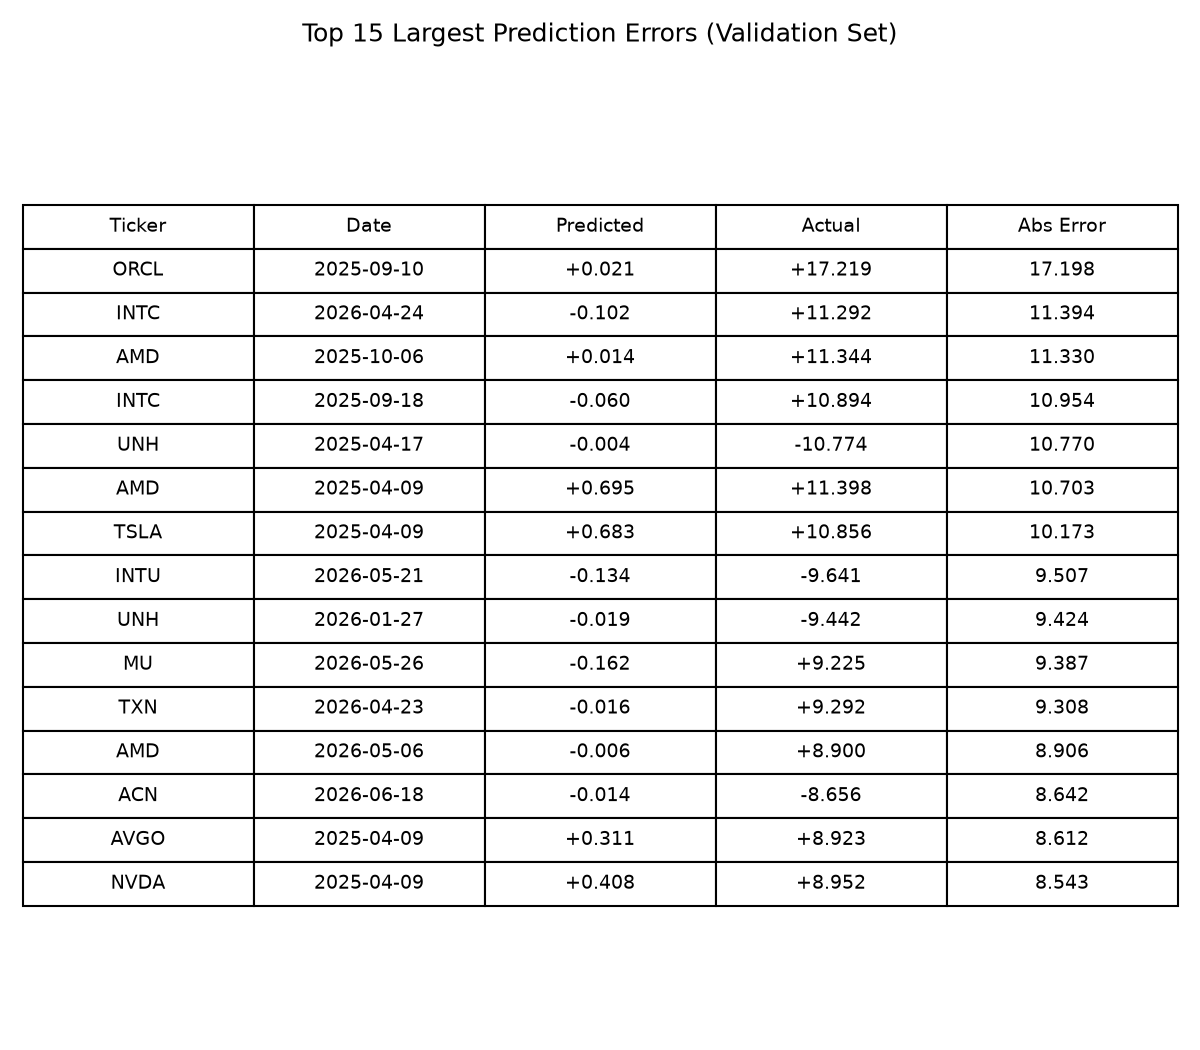
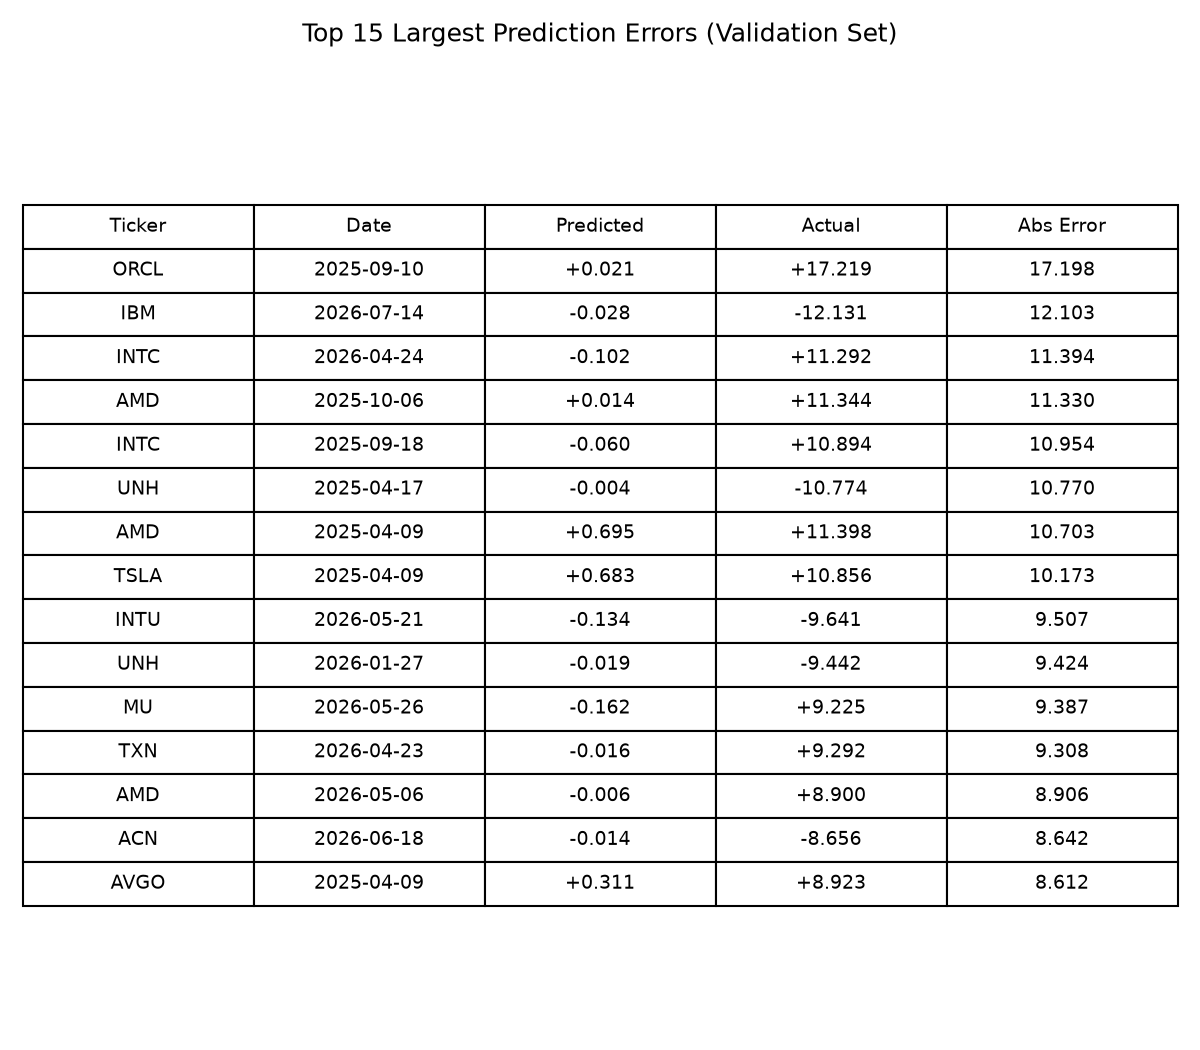
Add long/short backtest comparison vs. Fischer & Krauss (2018)
Runs the same methodology their paper used (daily long top-10/short
bottom-10 by predicted return) on our own model, producing a directly
comparable avg. daily return and Sharpe ratio (+0.03%/0.31 vs. their
published +0.46%/5.8) instead of just citing their number in isolation.
Wires fk_comparison.png into slide 7 and updates the README.

diff --git a/generate_report_plots.py b/generate_report_plots.py
@@ -204,6 +204,67 @@ def plot_results_table(preds, X_train, y_train, X_val, y_val):
     print("Saved results_table.png")
 
 
+def plot_trading_backtest(preds, y_val, id_val, dates_val, scaler, top_k: int = 10):
+    """Long/short backtest matching the methodology Fischer & Krauss (2018) used:
+    each day, rank stocks by predicted return, go long the top `top_k` and short
+    the bottom `top_k` (equal-weighted), and measure the REALIZED portfolio
+    return using actual outcomes — not the scaled MSE/directional-accuracy
+    metrics used elsewhere. This produces a number directly comparable to
+    their published 0.46% avg daily return / 5.8 Sharpe ratio.
+
+    StandardScaler's inverse transform is per-column independent, so we only
+    need the 'return' column's (column 0) mean/scale — no need to reconstruct
+    the full 5-column feature vector just to undo the scaling on one column.
+    """
+    return_mean = scaler.mean_[0]
+    return_scale = scaler.scale_[0]
+    actual_returns = y_val * return_scale + return_mean
+    predicted_returns = preds * return_scale + return_mean
+
+    df = pd.DataFrame({
+        "date": pd.to_datetime(dates_val),
+        "stock_id": id_val,
+        "predicted": predicted_returns,
+        "actual": actual_returns,
+    })
+
+    daily_portfolio_returns = []
+    for _, group in df.groupby("date"):
+        if len(group) < 2 * top_k:
+            continue
+        ranked = group.sort_values("predicted", ascending=False)
+        long_leg = ranked.head(top_k)["actual"].mean()
+        short_leg = ranked.tail(top_k)["actual"].mean()
+        daily_portfolio_returns.append(long_leg - short_leg)
+
+    daily_returns = np.array(daily_portfolio_returns)
+    avg_daily_return_pct = float(daily_returns.mean() * 100)
+    sharpe = float(daily_returns.mean() / daily_returns.std() * np.sqrt(252))
+
+    rows = [
+        ["Our Pooled LSTM (this project)", f"{avg_daily_return_pct:+.2f}%", f"{sharpe:.2f}"],
+        ["Fischer & Krauss (2018), EJOR", "+0.46%", "5.8"],
+    ]
+
+    fig, ax = plt.subplots(figsize=(8, 2.8))
+    ax.axis("off")
+    table = ax.table(
+        cellText=rows,
+        colLabels=["Model", "Avg. Daily Return\n(long-short, before costs)", "Sharpe Ratio"],
+        loc="center",
+        cellLoc="center",
+    )
+    table.auto_set_font_size(False)
+    table.set_fontsize(10)
+    table.scale(1, 2.8)
+    plt.title(f"Long/Short Backtest vs. Published Benchmark\n(top/bottom {top_k} stocks daily, {len(daily_returns)} trading days)", pad=20)
+    plt.tight_layout()
+    plt.savefig("fk_comparison.png", dpi=150)
+    plt.close()
+    print(f"Saved fk_comparison.png (avg daily return: {avg_daily_return_pct:+.2f}%, Sharpe: {sharpe:.2f})")
+    return avg_daily_return_pct, sharpe
+
+
 # ---------------------------------------------------------------------------
 # 4. System diagram — static deployment flow, no model inference involved
 # ---------------------------------------------------------------------------
@@ -306,18 +367,21 @@ def main():
     preds = plot_prediction_vs_actual(model, X_val, id_val, y_val)
     plot_large_errors(preds, y_val, id_val, dates_val, idx_to_stock)
 
-    print("\n[4/6] Results table (model vs. baselines)...")
+    print("\n[4/7] Results table (model vs. baselines)...")
     plot_results_table(preds, X_train, y_train, X_val, y_val)
 
-    print("\n[5/6] System diagram...")
+    print("\n[5/7] Long/short backtest vs. Fischer & Krauss (2018)...")
+    plot_trading_backtest(preds, y_val, id_val, dates_val, scaler)
+
+    print("\n[6/7] System diagram...")
     plot_system_diagram()
 
-    print("\n[6/6] Capacity ablation bar chart...")
+    print("\n[7/7] Capacity ablation bar chart...")
     plot_capacity_ablation()
 
     print(
         "\nDone. Generated: training_curves.png, prediction_vs_actual.png, large_errors.png, "
-        "results_table.png, system_diagram.png, capacity_ablation.png"
+        "results_table.png, fk_comparison.png, system_diagram.png, capacity_ablation.png"
     )
 
 

diff --git a/slide_deck.md b/slide_deck.md
@@ -94,18 +94,18 @@ can take Slide 11 (questions/demo). The back-and-forth keeps energy up over
 
 ## Slide 7 — How This Compares to Published Research
 **Text:**
-- Fischer & Krauss (2018, *European Journal of Operational Research*) — LSTM on S&P 500 constituents, 1992–2015: just **0.46% average daily returns**, Sharpe ratio 5.8, *before* transaction costs. Even a well-regarded published result found a small edge.
-- Systematic survey of deep learning stock prediction research (*Artificial Intelligence Review*): of 10,000+ papers reviewed, **only 35 performed proper backtesting** — most use ordinary train-test splits instead of the walk-forward validation financial time series requires.
-- The survey's own conclusion: published accuracy claims in this field **"often overstate practical utility"** without rigorous backtesting and financial validation.
+- Ran the same kind of backtest Fischer & Krauss (2018, *European Journal of Operational Research*) used on our own model: rank all stocks daily by predicted return, go long the top 10, short the bottom 10, measure the realized portfolio return
+- Our model: **+0.03% avg. daily return, Sharpe 0.31** — their published LSTM on S&P 500 stocks (1992–2015): **+0.46%, Sharpe 5.8** (before transaction costs)
+- Separately, a systematic survey of deep learning stock prediction research (*Artificial Intelligence Review*) found that of 10,000+ papers reviewed, **only 35 performed proper backtesting** — the survey's own conclusion is that published accuracy claims in this field **"often overstate practical utility"**
 
-**Image:** None (citation-driven slide — keep it text-focused; optionally a simple 3-line "sources" footer)
+**Image:** `fk_comparison.png`
 
 **Sources (for reference / if asked):**
 - Fischer, T. & Krauss, C. (2018). Deep learning with long short-term memory networks for financial market predictions. *European Journal of Operational Research*, 270(2), 654-669.
 - "Deep learning in the stock market—a systematic survey of practice, backtesting, and applications." *Artificial Intelligence Review* (Springer). https://pmc.ncbi.nlm.nih.gov/articles/PMC9245389/
 
 **Speaker (2) — this directly answers "how does this compare to real-world models," addresses it head-on:**
-*"We looked at how our result compares to published research. A well-known 2018 study applying LSTMs to S&P 500 stocks found only a 0.46% average daily edge — small, even in one of the field's more well-regarded results. More tellingly, a systematic survey of this entire research area found that out of over 10,000 papers, only 35 actually did proper backtesting — most use ordinary train-test splits instead of the time-aware validation financial data requires, and the survey's own conclusion is that published accuracy claims in this field often overstate practical utility. Our methodology — chronological splitting, train-only scaling, multiple honest baseline comparisons — is exactly the rigor this survey identifies as rare. So our modest, honest result isn't a weakness compared to the field. If anything, it's evidence we did the methodology right instead of skipping the steps that usually inflate these numbers."*
+*"We wanted a real comparison, not just a citation, so we ran the same kind of backtest a well-known 2018 study used: each day, rank stocks by predicted return, go long the top 10, short the bottom 10, and measure what actually happened. Our model's edge came out to +0.03% average daily return with a Sharpe ratio of 0.31 — their published result was +0.46% and a Sharpe of 5.8. So our edge is smaller, which is worth being upfront about. But it's the same direction of finding — even their well-regarded published result only found a modest edge, on the same kind of large-cap US stocks we used. And separately, a systematic survey of this entire research area found that out of over 10,000 papers, only 35 actually did proper backtesting, concluding that published accuracy claims in this field often overstate practical utility. Our methodology — chronological splitting, train-only scaling, honest baseline comparisons — is exactly the rigor that survey identifies as rare."*
 
 ---
 

diff --git a/README.md b/README.md
@@ -29,6 +29,7 @@ AI_project_1/
   prediction_vs_actual.png # Generated: predicted vs. actual returns (validation set)
   large_errors.png        # Generated: table of the 15 largest prediction misses
   results_table.png       # Generated: model vs. baselines — MSE + directional accuracy
+  fk_comparison.png       # Generated: long/short backtest vs. Fischer & Krauss (2018)
   capacity_ablation.png   # Generated: model size vs. validation loss bar chart
   system_diagram.png      # Generated: data-to-product deployment flow diagram
   capacity_ablation_results.json # Generated by capacity_ablation.py on future runs (not yet present)
@@ -214,6 +215,7 @@ Generates:
 | `prediction_vs_actual.png` | Scatter plot of predicted vs. actual next-day returns on the validation set |
 | `large_errors.png` | Table of the 15 largest prediction misses (ticker, date, predicted, actual) |
 | `results_table.png` | Model vs. baselines table — MSE + directional accuracy, computed live against the saved model |
+| `fk_comparison.png` | Long/short backtest (top/bottom 10 stocks daily) vs. Fischer & Krauss (2018) published benchmark |
 | `capacity_ablation.png` | Bar chart: validation loss across 4 model sizes (3K–75K params) — visual for the capacity ablation finding |
 | `system_diagram.png` | Data-to-product deployment flow diagram |
 